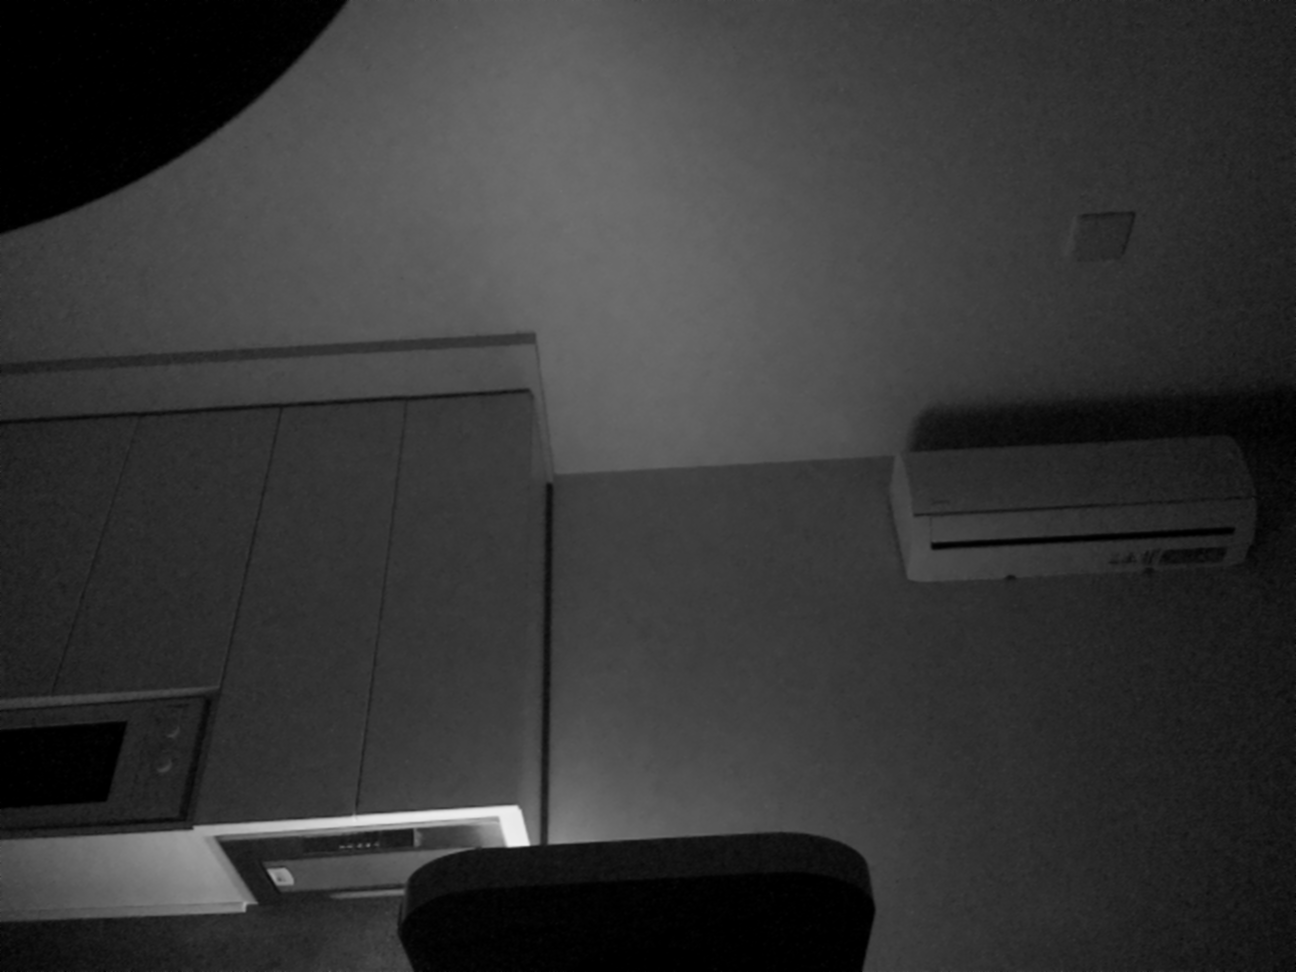
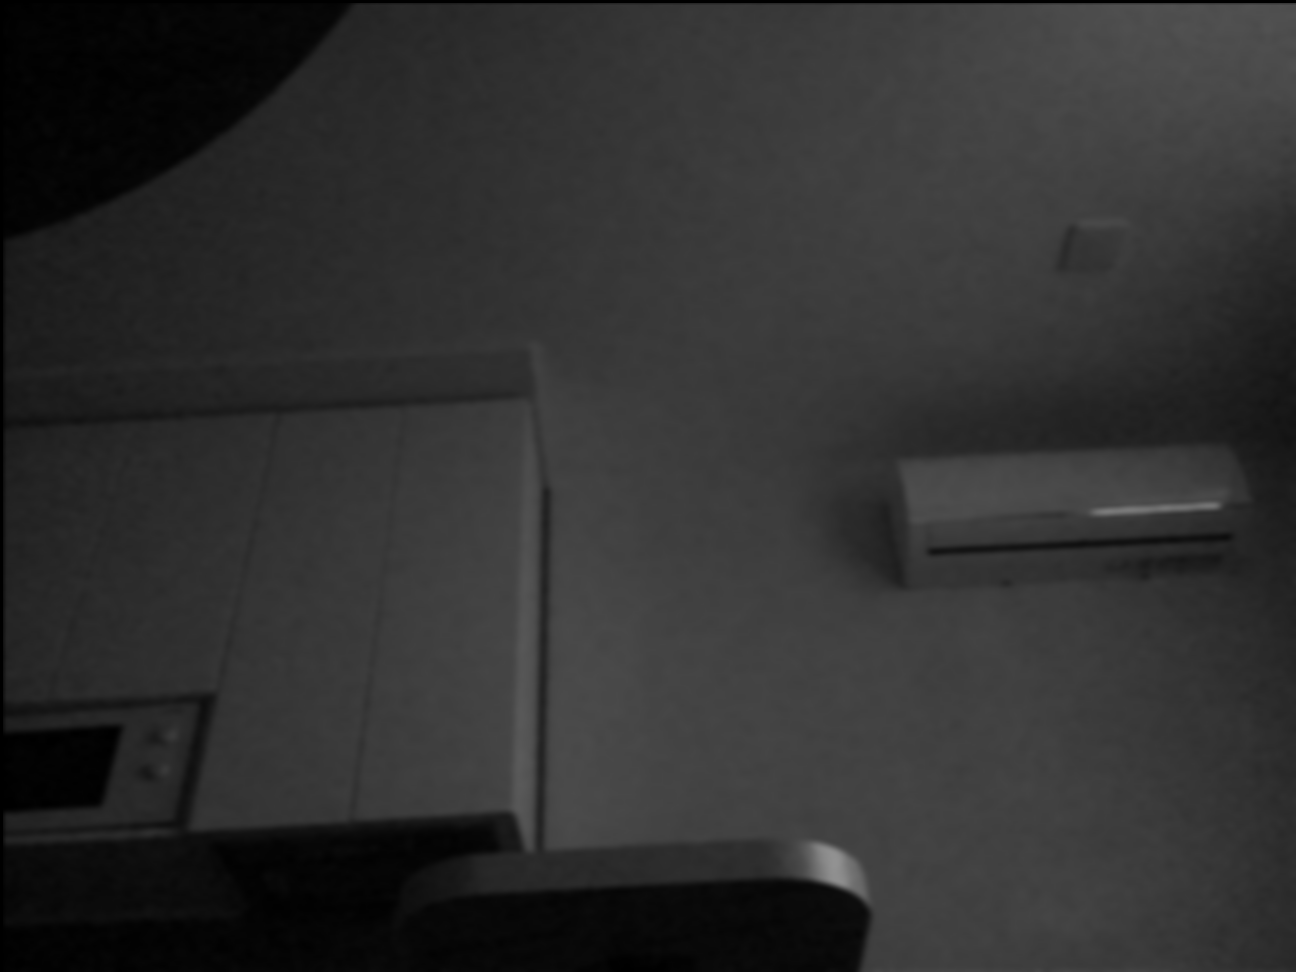
Σ(゜д゜;)

diff --git a/lib/raspi-camera/lib/Gaussian.h b/lib/raspi-camera/lib/Gaussian.h
@@ -1,0 +1,72 @@
+#include <algorithm>
+#include <math.h>
+
+namespace Raspi {
+
+namespace Utils { 
+
+  /**
+   * Optimizes Gaussian Blur 
+   * For more info check out this
+   * https://blog.ivank.net/fastest-gaussian-blur.html
+  */
+class Gaussian {
+public:
+  static void Blur(uint8_t* src, uint32_t width, uint32_t height, uint32_t r) {
+    uint8_t dst[width * height], box[3];
+
+    GaussBox(box, 3, r);
+    BoxBlur(src, dst, width, height, (box[0] - 1) / 2);
+    BoxBlur(dst, src, width, height, (box[1] - 1) / 2);
+    BoxBlur(src, dst, width, height, (box[2] - 1) / 2);
+  }
+
+private:
+  static void GaussBox(uint8_t* ptr, int32_t n, int32_t sigma) {
+    int32_t wl = (int32_t)sqrtf((12 * sigma * sigma / n) + 1);  // Ideal averaging filter width 
+    if (wl % 2 == 0) wl--;
+
+    int32_t wu = wl + 2;
+    int32_t m = (int32_t)roundf((12 * sigma * sigma - n * wl * wl - 4 * n * wl - 3 * n) / (-4 * wl - 4));
+
+    for (int32_t i = 0; i < n; i++) ptr[i] = i < m ? wl : wu;
+  }
+
+  static void BoxBlur(uint8_t* src, uint8_t* dst, uint32_t width, uint32_t height, uint32_t r) {
+    std::copy(src, src + width * height, dst);
+
+    BoxBlurH(dst, src, width, height, r);
+    BoxBlurT(src, dst, width, height, r);
+  }
+
+  static void BoxBlurH(uint8_t* src, uint8_t* dst, uint32_t width, uint32_t height, uint32_t r) {
+    for (int32_t i = 0; i < height; i++) {
+      for (int32_t j = 0; j < width; j++) {
+        int32_t val = 0;
+        for (int32_t ix = j - r; ix < j + r + 1; ix++) {
+          int32_t x = std::min((int32_t)width - 1, std::max(0, ix));
+          val += src[i * width + x];
+        }
+
+        dst[i * width + j] = (uint8_t)(val / (r + r + 1));
+      }
+    }
+  }
+
+  static void BoxBlurT(uint8_t* src, uint8_t* dst, uint32_t width, uint32_t height, uint32_t r) {
+    for (int32_t i = 0; i < height; i++) {
+      for (int32_t j = 0; j < width; j++) {
+        int32_t val = 0;
+        for (int32_t iy = i - r; iy < i + r + 1; iy++) {
+          int32_t y = std::min((int32_t)height - 1, std::max(0, iy));
+          val += src[y * width + j];
+        }
+
+        dst[i * width + j] = (uint8_t)(val / (r + r + 1));
+      }
+    }
+  }
+
+};
+};
+};

diff --git a/lib/raspi-camera/src/Main.cpp b/lib/raspi-camera/src/Main.cpp
@@ -1,20 +1,24 @@
-#include <src/Image.h>
+#include <src/Camera.h>
+#include <lib/Image.h>
+#include <lib/Gaussian.h>
 
 int main() {
   auto camera = Raspi::Camera();
 
-  uint32_t size = camera.FrameSize();
-  uint8_t* image = (uint8_t*)malloc(sizeof(uint8_t) * size);
-  uint8_t* data = (uint8_t*)malloc(sizeof(uint8_t) * (size >> 2));
+  const auto size = camera.Size();
+  const uint32_t len = camera.FrameSize();
+
+  uint8_t* image = (uint8_t*)malloc(sizeof(uint8_t) * len);
+  uint8_t* data = (uint8_t*)malloc(sizeof(uint8_t) * size.height * size.width);
 
   camera.TakeFrame(image);
-  Raspi::Utils::Image::RGBA2Luminance(image, data, size);
+  Raspi::Utils::Image::RGBA2Luminance(image, data, len);
 
-  Raspi::Utils::Image::GaussianBlur(data, 1296, 972);
+  Raspi::Utils::Gaussian::Blur(data, size.width, size.height, 3);
   
   // TODO: Impl code here
 
-  Raspi::Utils::Image::Luminance2RGBA(data, image, size);
+  Raspi::Utils::Image::Luminance2RGBA(data, image, len);
   camera.Save(image);
 
   std::free(data);

diff --git a/lib/raspi-camera/lib/Image.h b/lib/raspi-camera/lib/Image.h
@@ -1,0 +1,26 @@
+#include <stdint.h>
+
+namespace Raspi {
+
+namespace Utils { 
+
+class Image {
+
+public:
+  static void RGBA2Luminance(uint8_t* src, uint8_t* dst, uint32_t size) {
+    for (uint32_t i = 0; i < size; i += 4) {
+      dst[i >> 2] = (uint8_t)(0.2126f * src[i] + 0.7152f * src[i + 1] + 0.0722f * src[i + 2]);
+    }
+  }
+
+  static void Luminance2RGBA(uint8_t* src, uint8_t* dst, uint32_t size) {
+    for (uint32_t i = 0; i < size; i += 4) {
+      dst[i + 0] = src[i >> 2];
+      dst[i + 1] = src[i >> 2];
+      dst[i + 2] = src[i >> 2];
+      dst[i + 3] = 255;
+    }
+  }
+};
+};
+};

diff --git a/lib/raspi-camera/src/Camera.h b/lib/raspi-camera/src/Camera.h
@@ -124,6 +124,7 @@ private:
 
 public:
   inline uint32_t FrameSize() { return config != nullptr ? config->at(0).stride * config->at(0).size.height : 0; }
+  inline libcamera::Size Size() { return config != nullptr ? config->at(0).size : libcamera::Size(); }
 
 private: 
   std::shared_ptr<libcamera::Camera> camera;

diff --git a/lib/raspi-camera/lib/Clahe.h b/lib/raspi-camera/lib/Clahe.h
@@ -1,0 +1,13 @@
+#include <algorithm>
+#include <math.h>
+
+namespace Raspi {
+
+namespace Utils { 
+
+
+class Clahe {
+
+};
+};
+};
